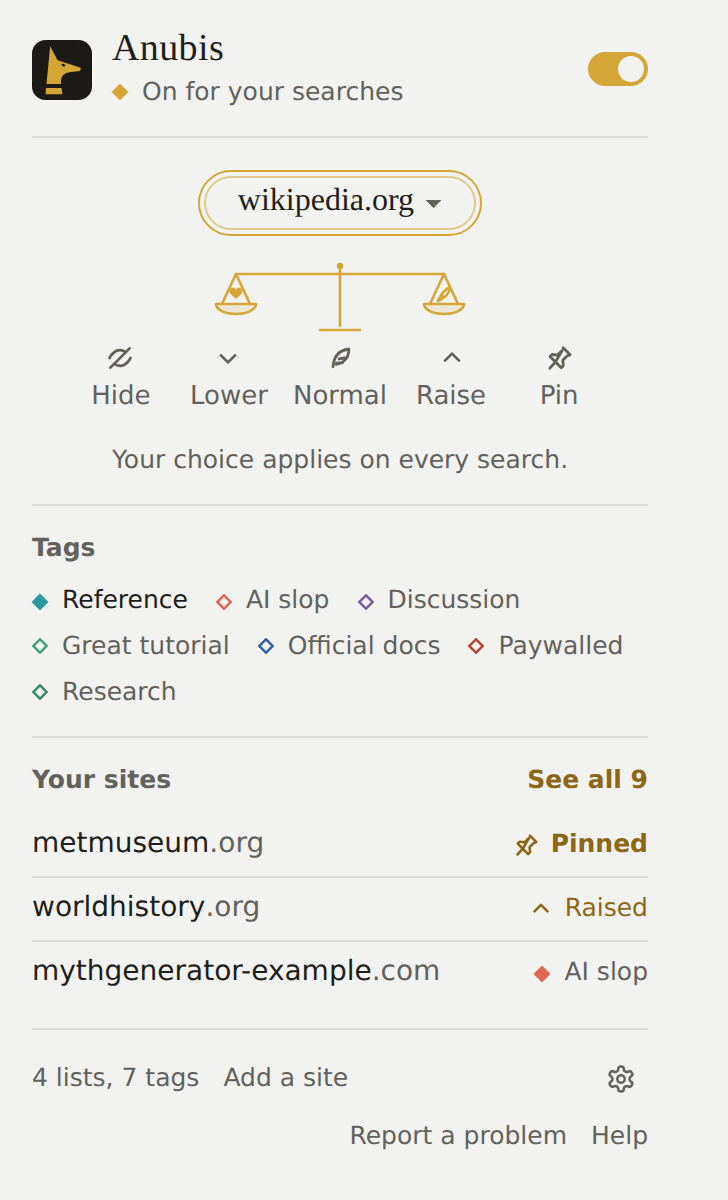
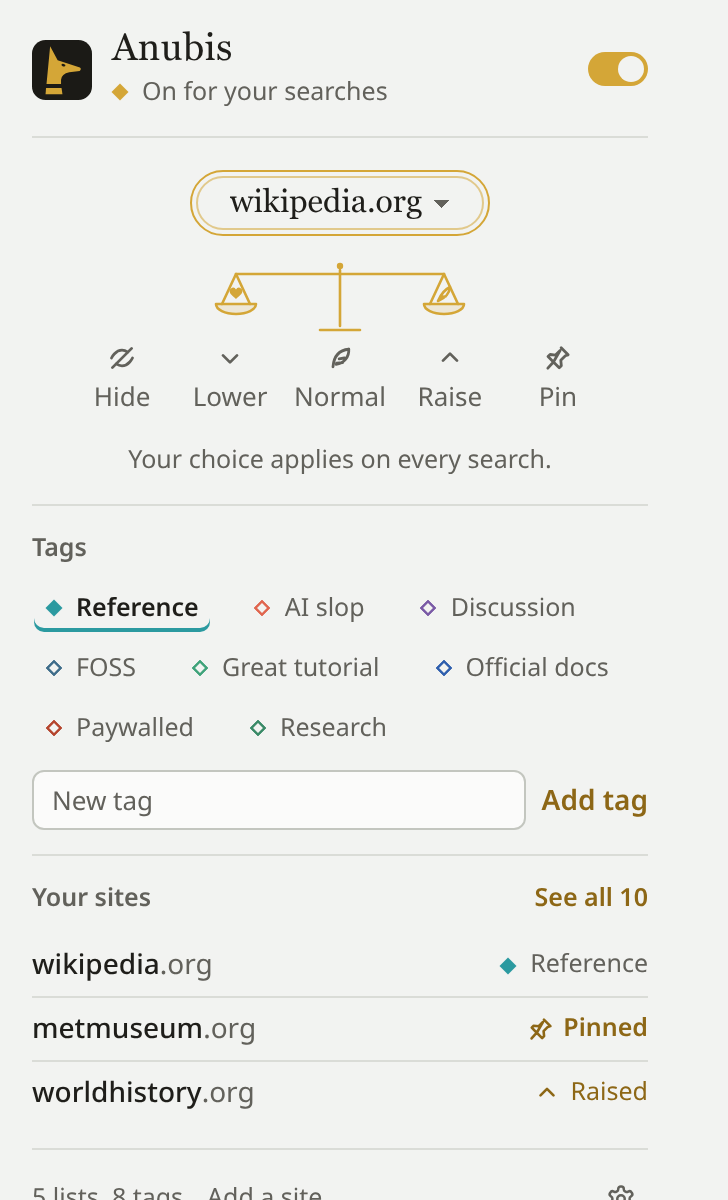
Add popup tags and curated labels

diff --git a/entrypoints/popup/main.ts b/entrypoints/popup/main.ts
@@ -9,8 +9,9 @@ import { LEVELS, TAG_CHOICES, evaluate, type Level } from '@/utils/matcher';
 import { h, icon, siteName } from '@/utils/dom';
 import { ICON_GEAR, LEVEL_CHIPS, LEVEL_ICONS, LEVEL_LABELS } from '@/utils/icons';
 import { localizePage, t, tJoin, tn, type MessageKey } from '@/utils/i18n';
+import { colorForTag, slugifyTag } from '@/utils/listformat';
 import { hiddenCount, send, sendToActiveTab, type PageStats } from '@/utils/messages';
-import { PERSONAL_NAME, getSite, listSites, setSiteLevel, toggleSiteTag, type PersonalLevel } from '@/utils/personal';
+import { PERSONAL_NAME, getSite, listSites, setSiteLevel, toggleSiteTag, upsertTagDef, type PersonalLevel } from '@/utils/personal';
 import { loadRuleSet, watchRuleSet, type RuleSet } from '@/utils/ruleset';
 import { editPersonal, updateSettings } from '@/utils/storage';
 import { stoppedSentence, summarySentence } from '@/utils/summary';
@@ -50,6 +51,7 @@ let hereDomain: string | undefined;
 /** Kept across renders so it swings to a new ranking instead of jumping. */
 const balance = balanceSvg();
 let stats: PageStats | undefined;
+let hereFocusKey: string | undefined;
 
 const openSettings = (tab?: string) => {
   void send({ type: 'open-options', tab });
@@ -100,6 +102,9 @@ async function renderAll() {
 /** The site in the current tab, when it isn't a search page: rank it for future searches. */
 function renderHere(rules: RuleSet) {
   const here = $('#here');
+  const active = document.activeElement;
+  const focusKey = hereFocusKey ?? (here.contains(active) && active instanceof HTMLElement ? active.dataset.focusKey : undefined);
+  hereFocusKey = undefined;
   const host = tabUrl && !engineFor(tabUrl.hostname) ? tabUrl.hostname : '';
   const choices = host ? domainChoices(host) : [];
   const domain =
@@ -200,10 +205,11 @@ function renderHere(rules: RuleSet) {
         class: `tag${on ? '' : ' off'}`,
         style: `--c: ${tag.color}`,
         title: tag.description ?? (on ? t('popupUntag', domain) : t('popupTagSite', domain, tag.label)),
-        attrs: { 'aria-pressed': String(on) },
+        attrs: { 'aria-pressed': String(on), 'data-focus-key': `tag-${id}` },
         on: {
           click: () => {
             hereDomain = domain;
+            hereFocusKey = `tag-${id}`;
             void editPersonal((text) => toggleSiteTag(text, domain, id));
           },
         },
@@ -213,10 +219,55 @@ function renderHere(rules: RuleSet) {
     );
   });
 
+  const tagInput = h('input', {
+    type: 'text',
+    placeholder: t('menuNewTagPlaceholder'),
+    maxLength: 32,
+    attrs: { 'aria-label': t('menuNewTagLabel'), 'aria-describedby': 'new-tag-error', 'data-focus-key': 'new-tag' },
+  });
+  const tagError = h('p', { class: 'tag-error', hidden: true, attrs: { id: 'new-tag-error', role: 'status' } });
+  const tagForm = h(
+    'form',
+    { class: 'new-tag' },
+    tagInput,
+    h('button', { class: 'text-btn', type: 'submit' }, t('menuAddTagButton')),
+    tagError,
+  );
+  tagForm.addEventListener('submit', (event) => {
+    event.preventDefault();
+    const label = tagInput.value.trim();
+    const id = slugifyTag(label);
+    if (!id) {
+      tagError.textContent = t('popupTagInvalid');
+      tagError.hidden = false;
+      tagInput.setAttribute('aria-invalid', 'true');
+      tagInput.focus();
+      return;
+    }
+    if (mine.has(id)) {
+      tagError.textContent = t('popupTagAlreadySet');
+      tagError.hidden = false;
+      tagInput.setAttribute('aria-invalid', 'true');
+      tagInput.focus();
+      return;
+    }
+    tagError.textContent = '';
+    tagError.hidden = true;
+    tagInput.removeAttribute('aria-invalid');
+    tagInput.value = '';
+    hereDomain = domain;
+    hereFocusKey = `tag-${id}`;
+    void editPersonal((text) => {
+      const withDefinition = rules.tags.has(id) ? text : upsertTagDef(text, { id, label, color: colorForTag(id) });
+      return toggleSiteTag(withDefinition, domain, id, true);
+    });
+  });
+
   here.replaceChildren(
     h('div', { class: 'weigh' }, cartouche, balance, levels, h('p', { class: 'hint' }, hint)),
-    ...(tagItems.length ? [h('div', { class: 'here-tags' }, h('h2', null, t('popupTags')), h('div', { class: 'tags' }, tagItems))] : []),
+    h('div', { class: 'here-tags' }, h('h2', null, t('popupTags')), tagItems.length ? h('div', { class: 'tags' }, tagItems) : null, tagForm),
   );
+  if (focusKey) requestAnimationFrame(() => here.querySelector<HTMLElement>(`[data-focus-key="${focusKey}"]`)?.focus());
   requestAnimationFrame(() => requestAnimationFrame(() => setBalance(balance, shown)));
 }
 

diff --git a/tests/lists.test.ts b/tests/lists.test.ts
@@ -14,7 +14,7 @@ describe('bundled lists', () => {
     expect(list.meta.name).toBeTruthy();
     expect(list.meta.description).toBeTruthy();
     expect(list.meta.issues).toMatch(/^https:\/\//);
-    expect(list.rules.length).toBeGreaterThan(5);
+    expect(list.rules.length).toBeGreaterThan(file === 'foss-tools.anubis' ? 1 : 5);
     // Every tag a rule uses is defined with a label, not just generated.
     for (const tag of list.tags) expect(tag.label).not.toBe(tag.id);
   });
@@ -24,6 +24,21 @@ describe('bundled lists', () => {
       expect(BUILTIN_TEXT[`builtin:${entry.id}`]).toBeTruthy();
       expect(entry.url).toMatch(new RegExp(`/lists/${entry.id}\\.anubis$`));
     }
+  });
+
+  it('bundles FOSS and AI slop tags with the requested FOSS tools', () => {
+    const list = parseList(readFileSync('lists/foss-tools.anubis', 'utf8'));
+    expect(list.tags).toContainEqual(expect.objectContaining({ id: 'foss', label: 'FOSS' }));
+    expect(list.tags).toContainEqual(
+      expect.objectContaining({ id: 'ai-slop', label: 'AI slop', description: 'Low-quality AI-generated content.' }),
+    );
+    expect(
+      list.rules.map(({ site, tags, boost, discard, pin }) => ({ site, tags, boost, discard, pin })),
+    ).toEqual([
+      { site: 'librespeed.org', tags: ['foss'], boost: 0, discard: false, pin: false },
+      { site: 'cobalt.tools', tags: ['foss'], boost: 0, discard: false, pin: false },
+    ]);
+    expect(BUNDLED_DIRECTORY.find((entry) => entry.id === 'foss-tools')).toMatchObject({ builtin: true, default: true });
   });
 
   it('has unique directory ids and https URLs', () => {

diff --git a/entrypoints/popup/style.css b/entrypoints/popup/style.css
@@ -1,5 +1,5 @@
 body {
-  width: 340px;
+  width: min(340px, 100vw);
   padding: 14px 16px 12px;
 }
 header {
@@ -188,12 +188,40 @@ h2 .text-btn {
 .tags .tag {
   font-size: 12.5px;
 }
+.tags button.tag {
+  min-height: 26px;
+  padding: 2px 6px;
+  border: 1px solid transparent;
+  border-radius: 6px;
+}
 .tags button.tag.off {
   color: var(--muted);
+}
+.tags button.tag[aria-pressed='true'] {
+  color: var(--text);
+  font-weight: 600;
+  box-shadow: inset 0 -2px var(--c);
 }
 .tags button.tag:hover {
   color: var(--text);
   text-decoration: none;
+}
+.new-tag {
+  display: flex;
+  flex-wrap: wrap;
+  align-items: center;
+  gap: 8px;
+  margin-top: 8px;
+}
+.new-tag input {
+  flex: 1;
+  min-width: 0;
+}
+.tag-error {
+  flex-basis: 100%;
+  margin: 0;
+  color: var(--danger);
+  font-size: 12.5px;
 }
 
 /* Add a site */

diff --git a/utils/subscriptions.ts b/utils/subscriptions.ts
@@ -1,5 +1,6 @@
 import directoryJson from '@/lists/directory.json';
 import discussions from '@/lists/discussions.anubis?raw';
+import fossTools from '@/lists/foss-tools.anubis?raw';
 import officialDocs from '@/lists/official-docs.anubis?raw';
 import paywalls from '@/lists/paywalls.anubis?raw';
 import reference from '@/lists/reference.anubis?raw';
@@ -59,6 +60,7 @@ export const DIRECTORY_URL = 'https://raw.githubusercontent.com/Bishop-V/anubis/
 export const BUILTIN_TEXT: Record<string, string> = {
   'builtin:official-docs': officialDocs,
   'builtin:discussions': discussions,
+  'builtin:foss-tools': fossTools,
   'builtin:reference': reference,
   'builtin:paywalls': paywalls,
 };

diff --git a/tests/storage.test.ts b/tests/storage.test.ts
@@ -133,7 +133,9 @@ describe('edits and subscriptions', () => {
   });
 
   it('treats missing subscriptions as the defaults, and an empty list as empty', async () => {
-    expect((await getSubscriptions()).map((s) => s.id)).toContain('builtin:official-docs');
+    const subscriptions = await getSubscriptions();
+    expect(subscriptions.map((s) => s.id)).toContain('builtin:official-docs');
+    expect(subscriptions.map((s) => s.id)).toContain('builtin:foss-tools');
     await saveSubscriptions([]);
     expect(await getSubscriptions()).toEqual([]);
   });

diff --git a/DEVELOPMENT.md b/DEVELOPMENT.md
@@ -266,7 +266,7 @@ Not everything is converted yet: `ROADMAP.md` lists what's left. Wording follows
 | `readme.test.ts` | The README's features against the wiki's introduction, and its links |
 | `help-links.test.ts` | Settings' links into the wiki, to pages and headings that exist |
 
-**End-to-end checks** (`npm run e2e`, or `node e2e/run.mjs <part>` after `npm run build:chrome`) load the Chrome build into Chromium. Install Playwright's Chromium with `npx playwright-core install chromium`. On NixOS, where Playwright's downloaded browser doesn't run, the harness uses a `chromium` on PATH, and without one fetches `nixpkgs#chromium` itself with Nix (from the nixpkgs `flake.lock` pins, kept in the Nix store), so `npm run e2e` and `npm run release:prep` work without a `nix shell`. `CHROMIUM_PATH` overrides all of them. The `subscribe` part downloads a real list from GitHub; behind a TLS-intercepting proxy, set `PROXY_CA_CERT` to its CA. Branded Chrome no longer loads unpacked extensions from the command line. The harness answers the real engines' addresses with the mock pages in `e2e/fixtures.mjs` (Google, DuckDuckGo, Bing, Brave, and Google's phone layout), seeds storage with a test personal list and settings, prints what Anubis decided, and saves screenshots to `e2e/shots/`. Each part is a block in `e2e/run.mjs`: `pages`, `hostile`, `grouped`, `reveal`, `runs`, `shortcuts`, `mobile`, `off`, `palette`, `cleanup`, `pins`, `popover`, `a11y`, `ddg-hide`, `filter`, `deeper`, `import`, `subscribe`, `subscribe-link`, `options`, `responsive`, `welcome`, `sync`, `webdav`, and `checks`. `responsive` checks every Settings section at 320px, 360px, and 390px, and confines narrow-screen scrolling to the Your sites table. `checks` asserts hostile and grouped Google results, forum links, reveal state, back-forward-cache restoration, the phone layout, and AI/video cleanup on Google, DuckDuckGo, and Brave; CI runs it alongside `responsive` on every pull request. `webdav` connects a mock WebDAV server in Settings; a script can't answer the browser's permission prompt, so it runs a copy of the build whose manifest already allows the mock's host, and Playwright only reaches the background script's requests with `PW_EXPERIMENTAL_SERVICE_WORKER_NETWORK_EVENTS=1`, which the part sets.
+**End-to-end checks** (`npm run e2e`, or `node e2e/run.mjs <part>` after `npm run build:chrome`) load the Chrome build into Chromium. Install Playwright's Chromium with `npx playwright-core install chromium`. On NixOS, where Playwright's downloaded browser doesn't run, the harness uses a `chromium` on PATH, and without one fetches `nixpkgs#chromium` itself with Nix (from the nixpkgs `flake.lock` pins, kept in the Nix store), so `npm run e2e` and `npm run release:prep` work without a `nix shell`. `CHROMIUM_PATH` overrides all of them. The `subscribe` part downloads a real list from GitHub; behind a TLS-intercepting proxy, set `PROXY_CA_CERT` to its CA. Branded Chrome no longer loads unpacked extensions from the command line. The harness answers the real engines' addresses with the mock pages in `e2e/fixtures.mjs` (Google, DuckDuckGo, Bing, Brave, and Google's phone layout), seeds storage with a test personal list and settings, prints what Anubis decided, and saves screenshots to `e2e/shots/`. Each part is a block in `e2e/run.mjs`: `pages`, `hostile`, `grouped`, `reveal`, `runs`, `shortcuts`, `mobile`, `off`, `palette`, `cleanup`, `pins`, `popover`, `a11y`, `ddg-hide`, `filter`, `deeper`, `import`, `subscribe`, `subscribe-link`, `options`, `responsive`, `popup-tags`, `welcome`, `sync`, `webdav`, and `checks`. `responsive` checks every Settings section at 320px, 360px, and 390px, and confines narrow-screen scrolling to the Your sites table. `popup-tags` checks selected-tag styling and creating a tag for the current site in light and dark themes and at 320px, 360px, and 390px. `checks` asserts hostile and grouped Google results, forum links, reveal state, back-forward-cache restoration, the phone layout, and AI/video cleanup on Google, DuckDuckGo, and Brave; CI runs it alongside `responsive` on every pull request. `webdav` connects a mock WebDAV server in Settings; a script can't answer the browser's permission prompt, so it runs a copy of the build whose manifest already allows the mock's host, and Playwright only reaches the background script's requests with `PW_EXPERIMENTAL_SERVICE_WORKER_NETWORK_EVENTS=1`, which the part sets.
 
 Most parts print their findings rather than failing on them, so read the output: a check that should say `false` and says `true` is a failure. `checks` is the asserted group; when converting a reported value into an assertion, prefer user-visible behavior and stable thresholds over incidental markup. Mock pages are models of the engines' markup, not copies of it; when an engine breaks, model the markup that broke as a variant of its mock (Google's `hostile` and `grouped` are examples) and never commit a page saved from a live search.
 

diff --git a/STYLEGUIDE.md b/STYLEGUIDE.md
@@ -95,7 +95,7 @@ One palette, defined twice: `assets/theme.css` for extension pages and `entrypoi
 
 | Surface | Layout |
 | --- | --- |
-| Popup | 340px wide. Header (logo, the status after a diamond that's gold while Anubis is on and hollow while it's off, on/off), then sections under hairlines with a muted label, then a footer. What shows depends on the tab: on a search page, what Anubis did there and its tags to show only; on any other site, that site in the cartouche over the balance, with the rankings and tags; elsewhere, Add a site. The last few of your sites always follow. |
+| Popup | Up to 340px wide, shrinking to fit a narrower viewport. Header (logo, the status after a diamond that's gold while Anubis is on and hollow while it's off, on/off), then sections under hairlines with a muted label, then a footer. What shows depends on the tab: on a search page, what Anubis did there and its tags to show only; on any other site, that site in the cartouche over the balance, with the rankings, tag choices, and a field to add a tag; elsewhere, Add a site. The last few of your sites always follow. |
 | Settings | Two columns in 1040px: a 210px navigation column and sections up to 760px. One row per thing you can change. Below 760px, one column with the navigation across the top. |
 | Welcome page | The same idea in 1040px: section titles in a 220px column, what to do beside them, lists two across. Below 900px, one column. |
 | Search pages | The summary sits above the results, lined up with them; on phones it's one short line, with Details for the rest. Tags go under each title. The result menu opens under its ⚖ button, 312px wide. |
@@ -104,7 +104,7 @@ Every page works at phone width (390px) without scrolling sideways. Settings are
 
 <img src="docs/img/popup.png" alt="The popup on wikipedia.org: the site in the cartouche over the balance, the five rankings, tags, and your sites" width="340">
 
-The popup on a site that isn't a search page: header, the site in the cartouche over the balance and rankings, tags as a choice of diamonds, your last few sites with their ranking in words (or their tag, when a site has only a tag), and a footer of small print and text buttons. No section is boxed; hairlines divide them.
+The popup on a site that isn't a search page: header, the site in the cartouche over the balance and rankings, tags as a choice of coloured diamonds, a field to create and apply a tag, your last few sites with their ranking in words (or their tag, when a site has only a tag), and a footer of small print and text buttons. No section is boxed; hairlines divide them.
 
 ## Controls
 
@@ -123,7 +123,7 @@ All shared controls are in `assets/theme.css`; the search-page versions in `shad
 | Select | `select` | The same box as an input, with the one caret: a small `--muted` chevron drawn in CSS, 10px from the right edge | Never the browser's own arrow |
 | Switch | `.switch` | 30×17px pill, gold when on | Settings that take effect at once; no Save button |
 | Choice row | `.seg`, `.levels` | Plain words in `--muted`; the chosen one `--text`, 600, with a 2px underline in gold (`--muted` for Hide, the tag's colour for a tag filter). The rankings put each one's icon over its word: `--muted` at rest, and once chosen `--gold-ink` for Raise and Pin, `--text` for the rest | Choosing one of a few: the rankings, Appearance's options |
-| Tag | `.tag` + `.gem` | A 6px diamond in the tag's colour, then its name; hollow for a tag you could add | Tags everywhere. Never pills or chips with fills. |
+| Tag | `.tag` + `.gem` | A 6px diamond in the tag's colour, then its name; hollow for a tag you could add. In the popup, a selected tag also has bold text and a 2px underline in its colour. | Tags everywhere. Never pills or chips with fills. |
 | Site name | `siteName()` + `.suffix` | The name in the row's colour, the ending it shares with other sites (`.org`, `.co.uk`) in `--muted` at 400 | A site as a row's subject: the popup's and Settings' Your sites |
 | Ranking note | `.level-note`, `.verdict` | Pin and Raise in `--gold-ink`, Hide, Lower, and Normal in `--muted`; pinned and hidden results use their selector icon instead of a redundant chip, while Raised and Lowered chips remain | Naming a site's ranking |
 

diff --git a/docs/experiments/design.md b/docs/experiments/design.md
@@ -6,6 +6,12 @@ The look, the wording, and Anubis's own pages. Part of [Experiments and decision
 
 - The owner asked for a bug report button people can find easily. **Report a problem** is in the toolbar popup's footer, beside Help, and in the Settings sidebar's links; the troubleshooting guide starts with it. It opens GitHub's issue form (`.github/ISSUE_TEMPLATE/bug-report.yml`) with the fields filled in by id from the link: Anubis's version, the browser and system from the user agent ("Firefox 143 on Linux"), and, from the popup on a search page, the engine's name. Nothing from the page goes in (no address, no search), and nothing is sent until the issue is submitted. Not put on search pages: the summary stays quiet, and the popup is one click away. `tests/bug-report.test.ts` checks the link only names fields the form has.
 
+## Tags in the site popup (2026-10-03)
+
+- **Found:** the toolbar popup let people press a tag for the current site, but the selected state was too subtle to spot. It also had no way to create a tag there, despite both actions being available in the search-result menu.
+- **Changed:** selected tags now use their own colour for a 2px underline and bold text, without a fill. The popup always shows a compact **New tag** field, which adds a tag to the personal list and applies it to the current site; an existing shared tag is reused. Empty or duplicate names are explained beside the field. The action keeps keyboard focus on the selected tag after the popup redraws.
+- **Checked:** a new popup e2e part covers selecting, creating, styling, focus-safe redraws, and narrow viewports; it runs in CI.
+
 ## Finishing touches (2026-09-29)
 
 - **Second follow-up (2026-09-30):** red for a ranking is now a written rule, not only a fix: `STYLEGUIDE.md`'s principles, `CLAUDE.md`, and `CONTRIBUTING.md` say `--danger` is only for errors and deleting, and `tests/palette.test.ts` fails when a CSS rule for Hide uses it. "Clean up" in Settings read as housekeeping rather than what the page does; it's now **Remove panels** everywhere people see it (the settings section, the README and wiki features, the guide's title, the homepage, and the store listing), with `#cleanup` and `guide/clean-up` kept so links still work. The tag switch lost its "Shown" label, which only repeated what a switch in that place does (its tooltip and label for screen readers stay). Tags describe a result, so the Paywalls list's tag is now "Paywalled" (its id stays `paywall`, so tag choices carry over), and `lists/README.md` asks list authors to name tags that way. The name and logo at the top of Settings open the wiki.

diff --git a/docs/guide/getting-started.md b/docs/guide/getting-started.md
@@ -29,7 +29,7 @@ Browsers put new extensions behind the Extensions button (a puzzle piece) next t
 
 ## Search as usual
 
-Search on any [supported engine](./search-engines.md). Anubis starts with a few lists that tag official documentation, discussions, reference sites, and paywalls, so you'll see tags under some results straight away.
+Search on any [supported engine](./search-engines.md). Anubis starts with lists that tag official documentation, discussions, reference sites, paywalls, and FOSS online tools. The **AI slop** tag is available for sites you choose to tag yourself.
 
 A one-line summary above the results says what Anubis did: which results it raised, lowered, or hid, and which tags are on the page. On a phone it says it in a few words ("Anubis changed 4 of 9 results."), and **Details** shows the rest.
 
@@ -55,11 +55,11 @@ Your choice applies to the whole site, including its subdomains. The name at the
 
 ## Rank the site you're on
 
-Press the Anubis icon in the toolbar while you're on any website. The popup shows the site's name over the balance: choose how its results should rank in future searches, and tag it if you like. When the site's address has more than one part, like `en.wikipedia.org`, press the name to choose how much of it your choice covers.
+Press the Anubis icon in the toolbar while you're on any website. The popup shows the site's name over the balance: choose how its results should rank in future searches, and add or create tags under **Tags**. When the site's address has more than one part, like `en.wikipedia.org`, press the name to choose how much of it your choice covers.
 
 On a search page the popup instead says what Anubis did to the results, with **Show hidden**, **Load more results**, and the page's tags, to show only the results with one of them. On any other page, **Add a site** takes a site's name and the ranking to give it.
 
-<img src="../img/popup.png" width="364" alt="The toolbar popup on wikipedia.org: the site's name over the balance, the five rankings, its tags, and your sites">
+<img src="../img/popup.png" width="364" alt="The toolbar popup on wikipedia.org: the Reference tag is selected and underlined among the site's tags">
 
 ## Turn Anubis off
 

diff --git a/docs/guide/privacy.md b/docs/guide/privacy.md
@@ -18,7 +18,7 @@ This use complies with the Chrome Web Store User Data Policy, including its Limi
 
 Only these:
 
-- **The lists you subscribe to**, from wherever they're hosted, to check for new versions once a day, or less often when a list says so (Anubis's own lists: once a week). This starts when you install Anubis, because it subscribes you to four lists of its own, hosted on GitHub. You can turn them off under **Settings → Lists**.
+- **The lists you subscribe to**, from wherever they're hosted, to check for new versions once a day, or less often when a list says so (Anubis's own lists: once a week). This starts when you install Anubis, because it subscribes you to five lists of its own, hosted on GitHub. You can turn them off under **Settings → Lists**.
 - **The directory of lists** on GitHub, when you open **Settings → Lists**, so **More lists** shows the newest ones.
 - **The search engine you're on**, for [Load more results](./more-results.md), which loads its next page like the "Next" link would. If the engine sends a page without results, Anubis opens that page once more out of sight, which is the same as opening it yourself.
 - **The WebDAV server you connect for syncing between browsers**, if you do. Anubis sends your ranked sites, settings, tag choices, and subscriptions to the HTTPS address you provide, and nowhere else. End-to-end encryption is on by default for new connections: when enabled, the server receives an encrypted file it cannot read. You can turn it off when connecting; existing unencrypted connections stay unencrypted until you enable it. Without encryption, the server operator can read the file. See [Between browsers](./sync.md#between-browsers).

diff --git a/docs/experiments/storage-and-lists.md b/docs/experiments/storage-and-lists.md
@@ -2,6 +2,12 @@
 
 Where things are stored, sync between browsers, and subscribing to lists. Part of [Experiments and decisions](../experiments.md). Newest notes go at the top of each section.
 
+## FOSS tools default list (2026-10-04)
+
+- **Added:** a separate bundled, default list labels LibreSpeed and cobalt.tools with the neutral **FOSS** tag, and makes **AI slop** available for manual tagging. Kept it separate from Reference rather than broadening that list's meaning; the rules do not change ranking or hide results.
+- **Compatibility:** default subscriptions remain a fallback only when none are stored. Existing users are not automatically resubscribed and can add **FOSS tools** from **Settings → Lists → More lists**.
+- **Not checked:** the live sites' source and licence pages. The list reflects the requested classification and does not claim anything about each hosted service's privacy practices.
+
 ## Passphrase changes that race or lose their answer (2026-09-29)
 
 - **Found:** a review of the passphrase change turned up three gaps. It ran in the Settings page, so the lock that keeps syncs from overlapping (which only works within one script) didn't hold back the background script's syncs; a sync's last attempt writes without `If-Match` and could put back a file under the old passphrase. When the server saved the new file but the answer was lost, the old passphrase stayed saved and the next sync failed. And a server disconnected during the change was connected again when it finished.

diff --git a/docs/guide/introduction.md b/docs/guide/introduction.md
@@ -21,7 +21,7 @@ It works on the search engine you already use. Your choices, and the lists you s
 <!-- Maintainer: the README's "What it does" lists the same features under the same names, linking the same pages; tests/readme.test.ts checks that. Change both together. -->
 
 - **Rank any site from the results.** Hide, lower, raise, or pin a site with the button on any result. [Ranking sites](./ranking.md)
-- **Tags.** Results carry labels like "Official docs", "Discussion", or "Paywalled". You decide what each tag does, from just showing the label to hiding every result that has it. [Tags](./tags.md)
+- **Tags.** Results carry labels like "Official docs", "Discussion", "Paywalled", "FOSS", or "AI slop". You decide what each tag does, from just showing the label to hiding every result that has it. [Tags](./tags.md)
 - **Lists anyone can publish.** Subscribe to lists that tag and rank sites for you. A list is a text file in a Git repository, so anyone can publish one and suggest changes to one. Brave Goggles, uBlacklist rulesets, and plain domain lists work unchanged. [Subscribing to lists](./lists.md) and [Publish a list](./publish-a-list.md)
 - **Remove panels.** Take AI answers, video panels, "People also ask", and more off every search. [Removing panels](./clean-up.md)
 - **More than one page of results.** Bring the next pages onto the first and rank them together, so a site you pinned on page 3 rises to the top. [Loading more results](./more-results.md)
